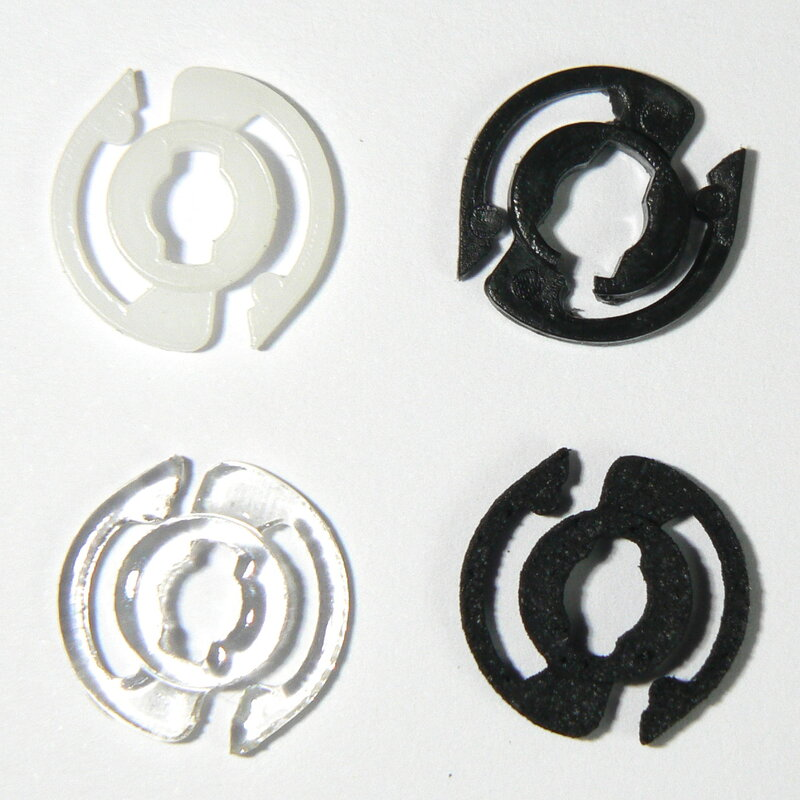
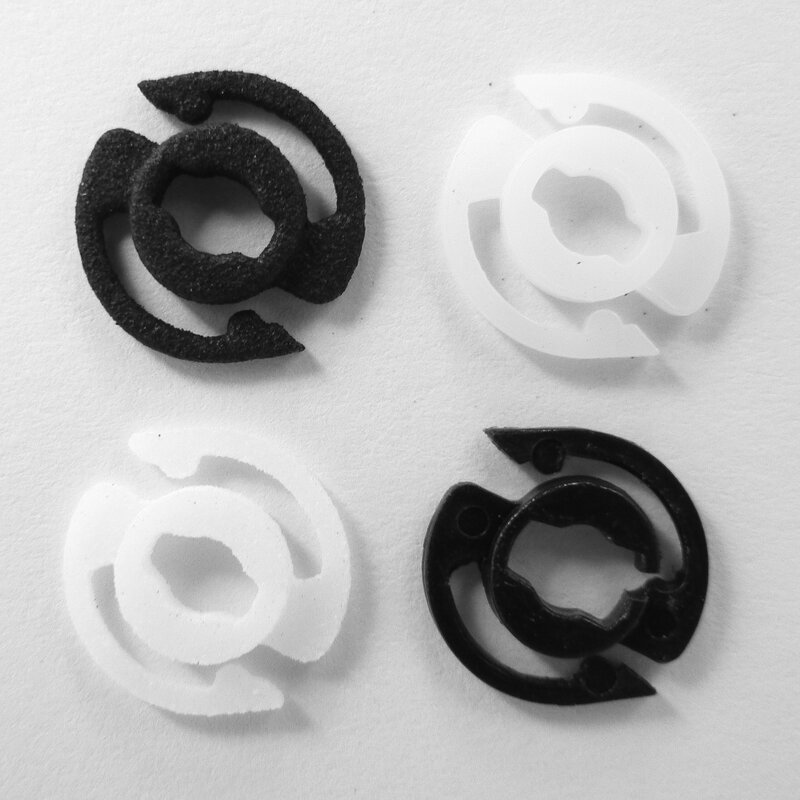
Update with correctly printed parts

diff --git a/README.md b/README.md
@@ -16,15 +16,15 @@ the exported STL in this repository.
 
 Parts were 3D printed by [WeNext][2] in:
 
-  * Top left: Somos GP Plus 14122 (white resin, SLA)
+  * Top left: HP 3D High Reusability PA 12 (black nylon, MJF)
+
+  * Top right: Somos GP Plus 14122 (white resin, SLA)
   
-  * Bottom left: Somos WaterShed XC 11122 (clear resin, SLA)
+  * Bottom right: FS3300PA (white nylon, SLS)
   
-  * Bottom right: HP 3D High Reusability PA 12 (black nylon, MJF)
-  
-The Somos GP Plus 14122 part broke on first try, possibly when
-rewinding the film after successfully shooting around 12 exposures
-before the advance mechanism got stuck.
+An earlier design Somos GP Plus 14122 part broke quickly, possibly
+when rewinding the film after successfully shooting around 12
+exposures before the advance mechanism got stuck.
 
 Currently in the camera is the HP 3D High Reusability PA 12, sanded
 down slightly.
